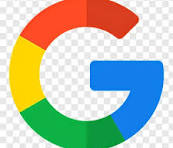
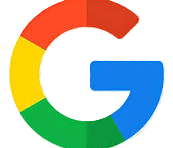
feat: Update authentication screens and add Google sign-in asset

diff --git a/lib/screens/authentication/sign_in.dart b/lib/screens/authentication/sign_in.dart
@@ -15,25 +15,148 @@ class _SignInState extends State<SignIn> {
   // reference to the AuthServices
   final AuthServices _auth = AuthServices();
 
+  final _formkey = GlobalKey<FormState>();
+
+  // email and password
+  String email = '';
+  String password = '';
+
   @override
   Widget build(BuildContext context) {
     return Scaffold(
       backgroundColor: bgBlack,
       appBar: AppBar(
+        centerTitle: true,
         title: const Text(
           "SIGN IN",
           style: TextStyle(color: mainWhite, fontWeight: FontWeight.bold),
         ),
         backgroundColor: bgBlack,
       ), // AppBar
-      body: Padding(
-        padding: const EdgeInsets.only(left: 10.0, right: 10.0),
-        child: Column(
-          children: [
-            Text(description, style: descriptionStyle),
-            Center(child: Image.asset("assets/profile.png", height: 200)),
-            // Form(child:Column())
-          ],
+      body: SingleChildScrollView(
+        child: Padding(
+          padding: const EdgeInsets.only(left: 10.0, right: 10.0),
+          child: Column(
+            children: [
+              Text(description, style: descriptionStyle),
+              Center(child: Image.asset("assets/profile.png", height: 200)),
+              Form(
+                key: _formkey,
+                child: Column(
+                  children: [
+                    TextFormField(
+                      validator: (val) {
+                        if (val == null || val.isEmpty) {
+                          return 'Enter a Valid Email';
+                        }
+                        return null;
+                      },
+                      onChanged: (val) => setState(() {
+                        email = val;
+                      }),
+                    ),
+                    TextFormField(
+                      obscureText: true,
+                      validator: (val) {
+                        if (val == null || val.length < 6) {
+                          return 'Enter a Valid Password';
+                        }
+                        return null;
+                      },
+                      onChanged: (val) => setState(() {
+                        password = val;
+                      }),
+                    ),
+                    const SizedBox(height: 20),
+                    const Text(
+                      "Login with social accounts",
+                      style: descriptionStyle,
+                    ),
+                    const SizedBox(height: 20),
+                    GestureDetector(
+                      onTap: () {
+                        // Handle Google sign-in
+                      },
+                      child: Center(
+                        child: Image.asset("assets/google.png", height: 50),
+                      ),
+                    ),
+                    const SizedBox(height: 20),
+                    Row(
+                      mainAxisAlignment: MainAxisAlignment.center,
+                      children: [
+                        const Text(
+                          "Do not have an account? ",
+                          style: descriptionStyle,
+                        ),
+                        const SizedBox(width: 10),
+                        GestureDetector(
+                          onTap: () {
+                            // Navigate to the registration screen
+                          },
+                          child: Text(
+                            "REGISTER",
+                            style: TextStyle(
+                              color: mainBlue,
+                              fontWeight: FontWeight.w300,
+                            ),
+                          ),
+                        ),
+                      ],
+                    ),
+                    const SizedBox(height: 20),
+                    GestureDetector(
+                      onTap: () {
+                        // Handle login
+                      },
+                      child: Container(
+                        height: 40,
+                        width: 200,
+                        decoration: BoxDecoration(
+                          color: bgBlack,
+                          borderRadius: BorderRadius.circular(100),
+                          border: Border.all(width: 2, color: mainYellow),
+                        ),
+                        child: Center(
+                          child: const Text(
+                            "LOG IN",
+                            style: TextStyle(
+                              color: mainWhite,
+                              fontWeight: FontWeight.w500,
+                            ),
+                          ),
+                        ),
+                      ),
+                    ),
+                    const SizedBox(height: 14),
+                    GestureDetector(
+                      onTap: () {
+                        // Handle login
+                      },
+                      child: Container(
+                        height: 40,
+                        width: 200,
+                        decoration: BoxDecoration(
+                          color: bgBlack,
+                          borderRadius: BorderRadius.circular(100),
+                          border: Border.all(width: 2, color: mainYellow),
+                        ),
+                        child: Center(
+                          child: const Text(
+                            "LOGIN AS GUEST",
+                            style: TextStyle(
+                              color: mainWhite,
+                              fontWeight: FontWeight.w500,
+                            ),
+                          ),
+                        ),
+                      ),
+                    ),
+                  ],
+                ),
+              ),
+            ],
+          ),
         ),
       ),
     );

diff --git a/lib/screens/authentication/register.dart b/lib/screens/authentication/register.dart
@@ -1,3 +1,7 @@
+import 'package:flutify/constants/colors.dart';
+import 'package:flutify/constants/description.dart';
+import 'package:flutify/constants/styles.dart';
+import 'package:flutify/services/auth.dart';
 import 'package:flutter/material.dart';
 
 class Register extends StatefulWidget {
@@ -8,8 +12,128 @@ class Register extends StatefulWidget {
 }
 
 class _RegisterState extends State<Register> {
+  final AuthServices _auth = AuthServices();
+
+  final _formkey = GlobalKey<FormState>();
+
+  // email and password
+  String email = '';
+  String password = '';
+
   @override
   Widget build(BuildContext context) {
-    return Text("Register");
+    return Scaffold(
+      backgroundColor: bgBlack,
+      appBar: AppBar(
+        centerTitle: true,
+        title: const Text(
+          "REGISTER",
+          style: TextStyle(color: mainWhite, fontWeight: FontWeight.bold),
+        ),
+        backgroundColor: bgBlack,
+      ), // AppBar
+      body: SingleChildScrollView(
+        child: Padding(
+          padding: const EdgeInsets.only(left: 10.0, right: 10.0),
+          child: Column(
+            children: [
+              Text(description, style: descriptionStyle),
+              Center(child: Image.asset("assets/profile.png", height: 200)),
+              Form(
+                key: _formkey,
+                child: Column(
+                  children: [
+                    TextFormField(
+                      validator: (val) {
+                        if (val == null || val.isEmpty) {
+                          return 'Enter a Valid Email';
+                        }
+                        return null;
+                      },
+                      onChanged: (val) => setState(() {
+                        email = val;
+                      }),
+                    ),
+                    TextFormField(
+                      obscureText: true,
+                      validator: (val) {
+                        if (val == null || val.length < 6) {
+                          return 'Enter a Valid Password';
+                        }
+                        return null;
+                      },
+                      onChanged: (val) => setState(() {
+                        password = val;
+                      }),
+                    ),
+                    const SizedBox(height: 20),
+                    const Text(
+                      "Login with social accounts",
+                      style: descriptionStyle,
+                    ),
+                    const SizedBox(height: 20),
+                    GestureDetector(
+                      onTap: () {
+                        // Handle Google sign-in
+                      },
+                      child: Center(
+                        child: Image.asset("assets/google.png", height: 50),
+                      ),
+                    ),
+                    const SizedBox(height: 20),
+                    Row(
+                      mainAxisAlignment: MainAxisAlignment.center,
+                      children: [
+                        const Text(
+                          "Do not have an account? ",
+                          style: descriptionStyle,
+                        ),
+                        const SizedBox(width: 10),
+                        GestureDetector(
+                          onTap: () {
+                            // Navigate to the registration screen
+                          },
+                          child: Text(
+                            "LOG IN",
+                            style: TextStyle(
+                              color: mainBlue,
+                              fontWeight: FontWeight.w300,
+                            ),
+                          ),
+                        ),
+                      ],
+                    ),
+                    const SizedBox(height: 20),
+                    GestureDetector(
+                      onTap: () {
+                        // Handle login
+                      },
+                      child: Container(
+                        height: 40,
+                        width: 200,
+                        decoration: BoxDecoration(
+                          color: bgBlack,
+                          borderRadius: BorderRadius.circular(100),
+                          border: Border.all(width: 2, color: mainYellow),
+                        ),
+                        child: Center(
+                          child: const Text(
+                            "REGISTER",
+                            style: TextStyle(
+                              color: mainWhite,
+                              fontWeight: FontWeight.w500,
+                            ),
+                          ),
+                        ),
+                      ),
+                    ),
+                  ],
+                ),
+              ),
+            ],
+          ),
+        ),
+      ),
+    );
   }
 }

diff --git a/lib/screens/authentication/authenticate.dart b/lib/screens/authentication/authenticate.dart
@@ -1,3 +1,4 @@
+import 'package:flutify/screens/authentication/register.dart';
 import 'package:flutify/screens/authentication/sign_in.dart';
 import 'package:flutter/material.dart';
 
@@ -11,6 +12,6 @@ class Authenticate extends StatefulWidget {
 class _AuthenticateState extends State<Authenticate> {
   @override
   Widget build(BuildContext context) {
-    return SignIn();
+    return Register();
   }
 }

diff --git a/lib/constants/description.dart b/lib/constants/description.dart
@@ -1,3 +1,3 @@
 import 'package:flutter/material.dart';
 
-const String description = "This is a description string.";
+const String description = "Welcome back! Sign in to Flutify.";
